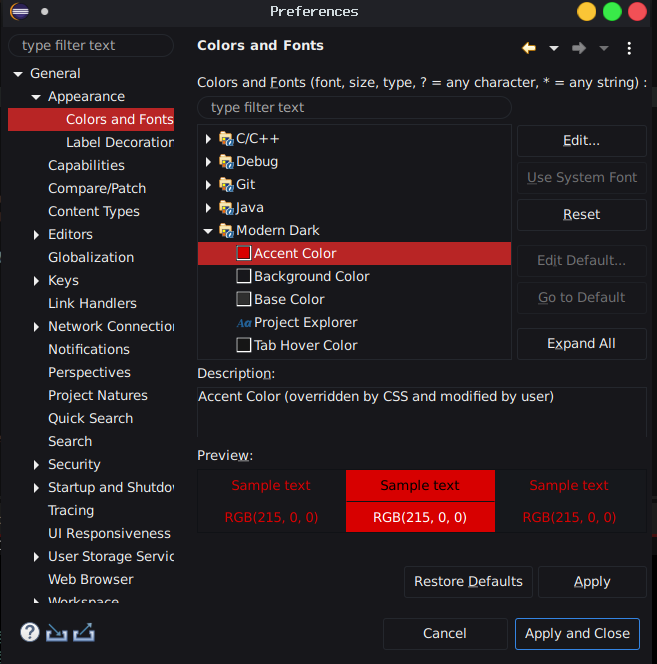
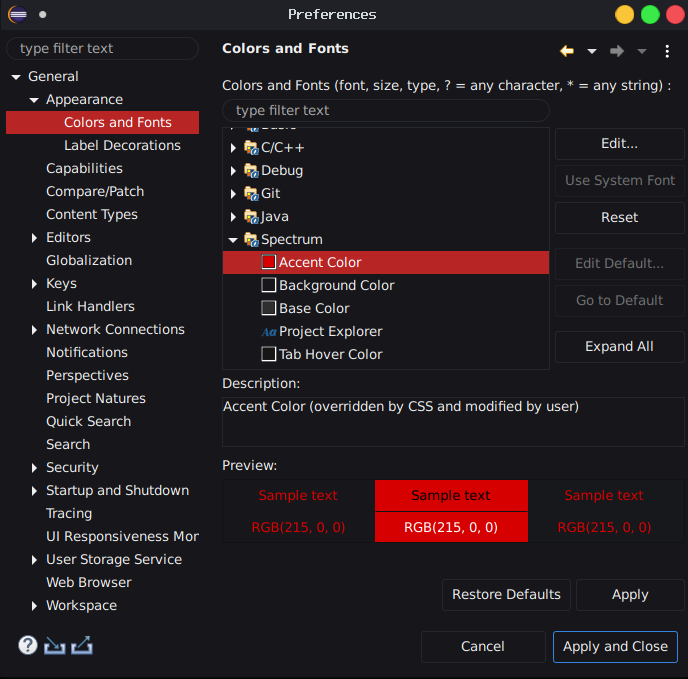
Update README to use new name
Part of #69

diff --git a/README.md b/README.md
@@ -1,16 +1,19 @@
-# Eclipse Modern Dark Theme
+# Eclipse Spectrum Theme 🌌✨
 
-This plugin adds the _Modern Dark_ theme to Eclipse IDE.
+Give Eclipse a *fresh* new look with **Spectrum Theme**. 
 
-## Features
+This free and open-source theme plugin enhances your Eclipse IDE experience with a
+clean visual overhaul that can be customized to your liking.
 
-- Gives Eclipse a clean visual overhaul
+## Plugin Features:
 
-- Allows Eclipse's Project Explorer font to be set.
+- **Spectrum Theme ✨**: a clean & flat visual overhaul to Eclipse IDE
+- **Customizable theme colors 🌈:** show your *style* by changing the colors 
+  used in Spectrum Theme. Associate different color schemes on a 
+  per-workspace basis.
+- **Customizable Project Explorer font 👀:** change the size & font of the Project Explorer in Eclipse IDE
 
-- Provides customization options for the colors used in the theme 
-
-## How it looks
+## 📸 Screenshots
 
 ![How it looks](images/how_it_looks.png)
 
@@ -18,8 +21,7 @@ This plugin adds the _Modern Dark_ theme to Eclipse IDE.
 
 **Note:** The above screenshots were taken on Linux using with [Abrus-dark](https://github.com/vinceliuice/Abrus-gtk-theme) GTK theme.
 
-
-### Color customization examples
+### 🎨 Color customization examples
 
 ![Custom colors 1](images/custom_colors_1.png)
 
@@ -27,16 +29,22 @@ This plugin adds the _Modern Dark_ theme to Eclipse IDE.
 
 ![Custom colors 3](images/custom_colors_3.png)
 
-#### How to customize the theme's color & font preferences
+#### How to customize Spectrum Theme's color & font preferences
 
-Open Eclipse's preferences and navigate to General -> Appearance -> Colors and Fonts. The plugin's color & font preferences are under the Modern Dark category folder.
+Open Eclipse's preferences and navigate to General >> Appearance >> Colors and Fonts. The plugin's color & font preferences are under the Spectrum category folder.
 
 <p align="center">
 <img title="" src="images/custom_preferences.png" alt="Modern dark color preferences" width="434">
 </p>
 
-## Plugin Installation
+## 📥 Installation
 
 ### Update Site
 
-`https://raw.githubusercontent.com/AObuchow/Eclipse-Modern-Dark-Theme/updatesite/updatesite/`
+`https://raw.githubusercontent.com/AObuchow/Eclipse-Spectrum-Theme/updatesite/updatesite/`
+
+## Planned features:
+
+- 💾 Saving user color schemes to CSS, which can be easily shared 
+
+- 🔮 Dynamically generated color schemes (from user-selected colors or randomly)
